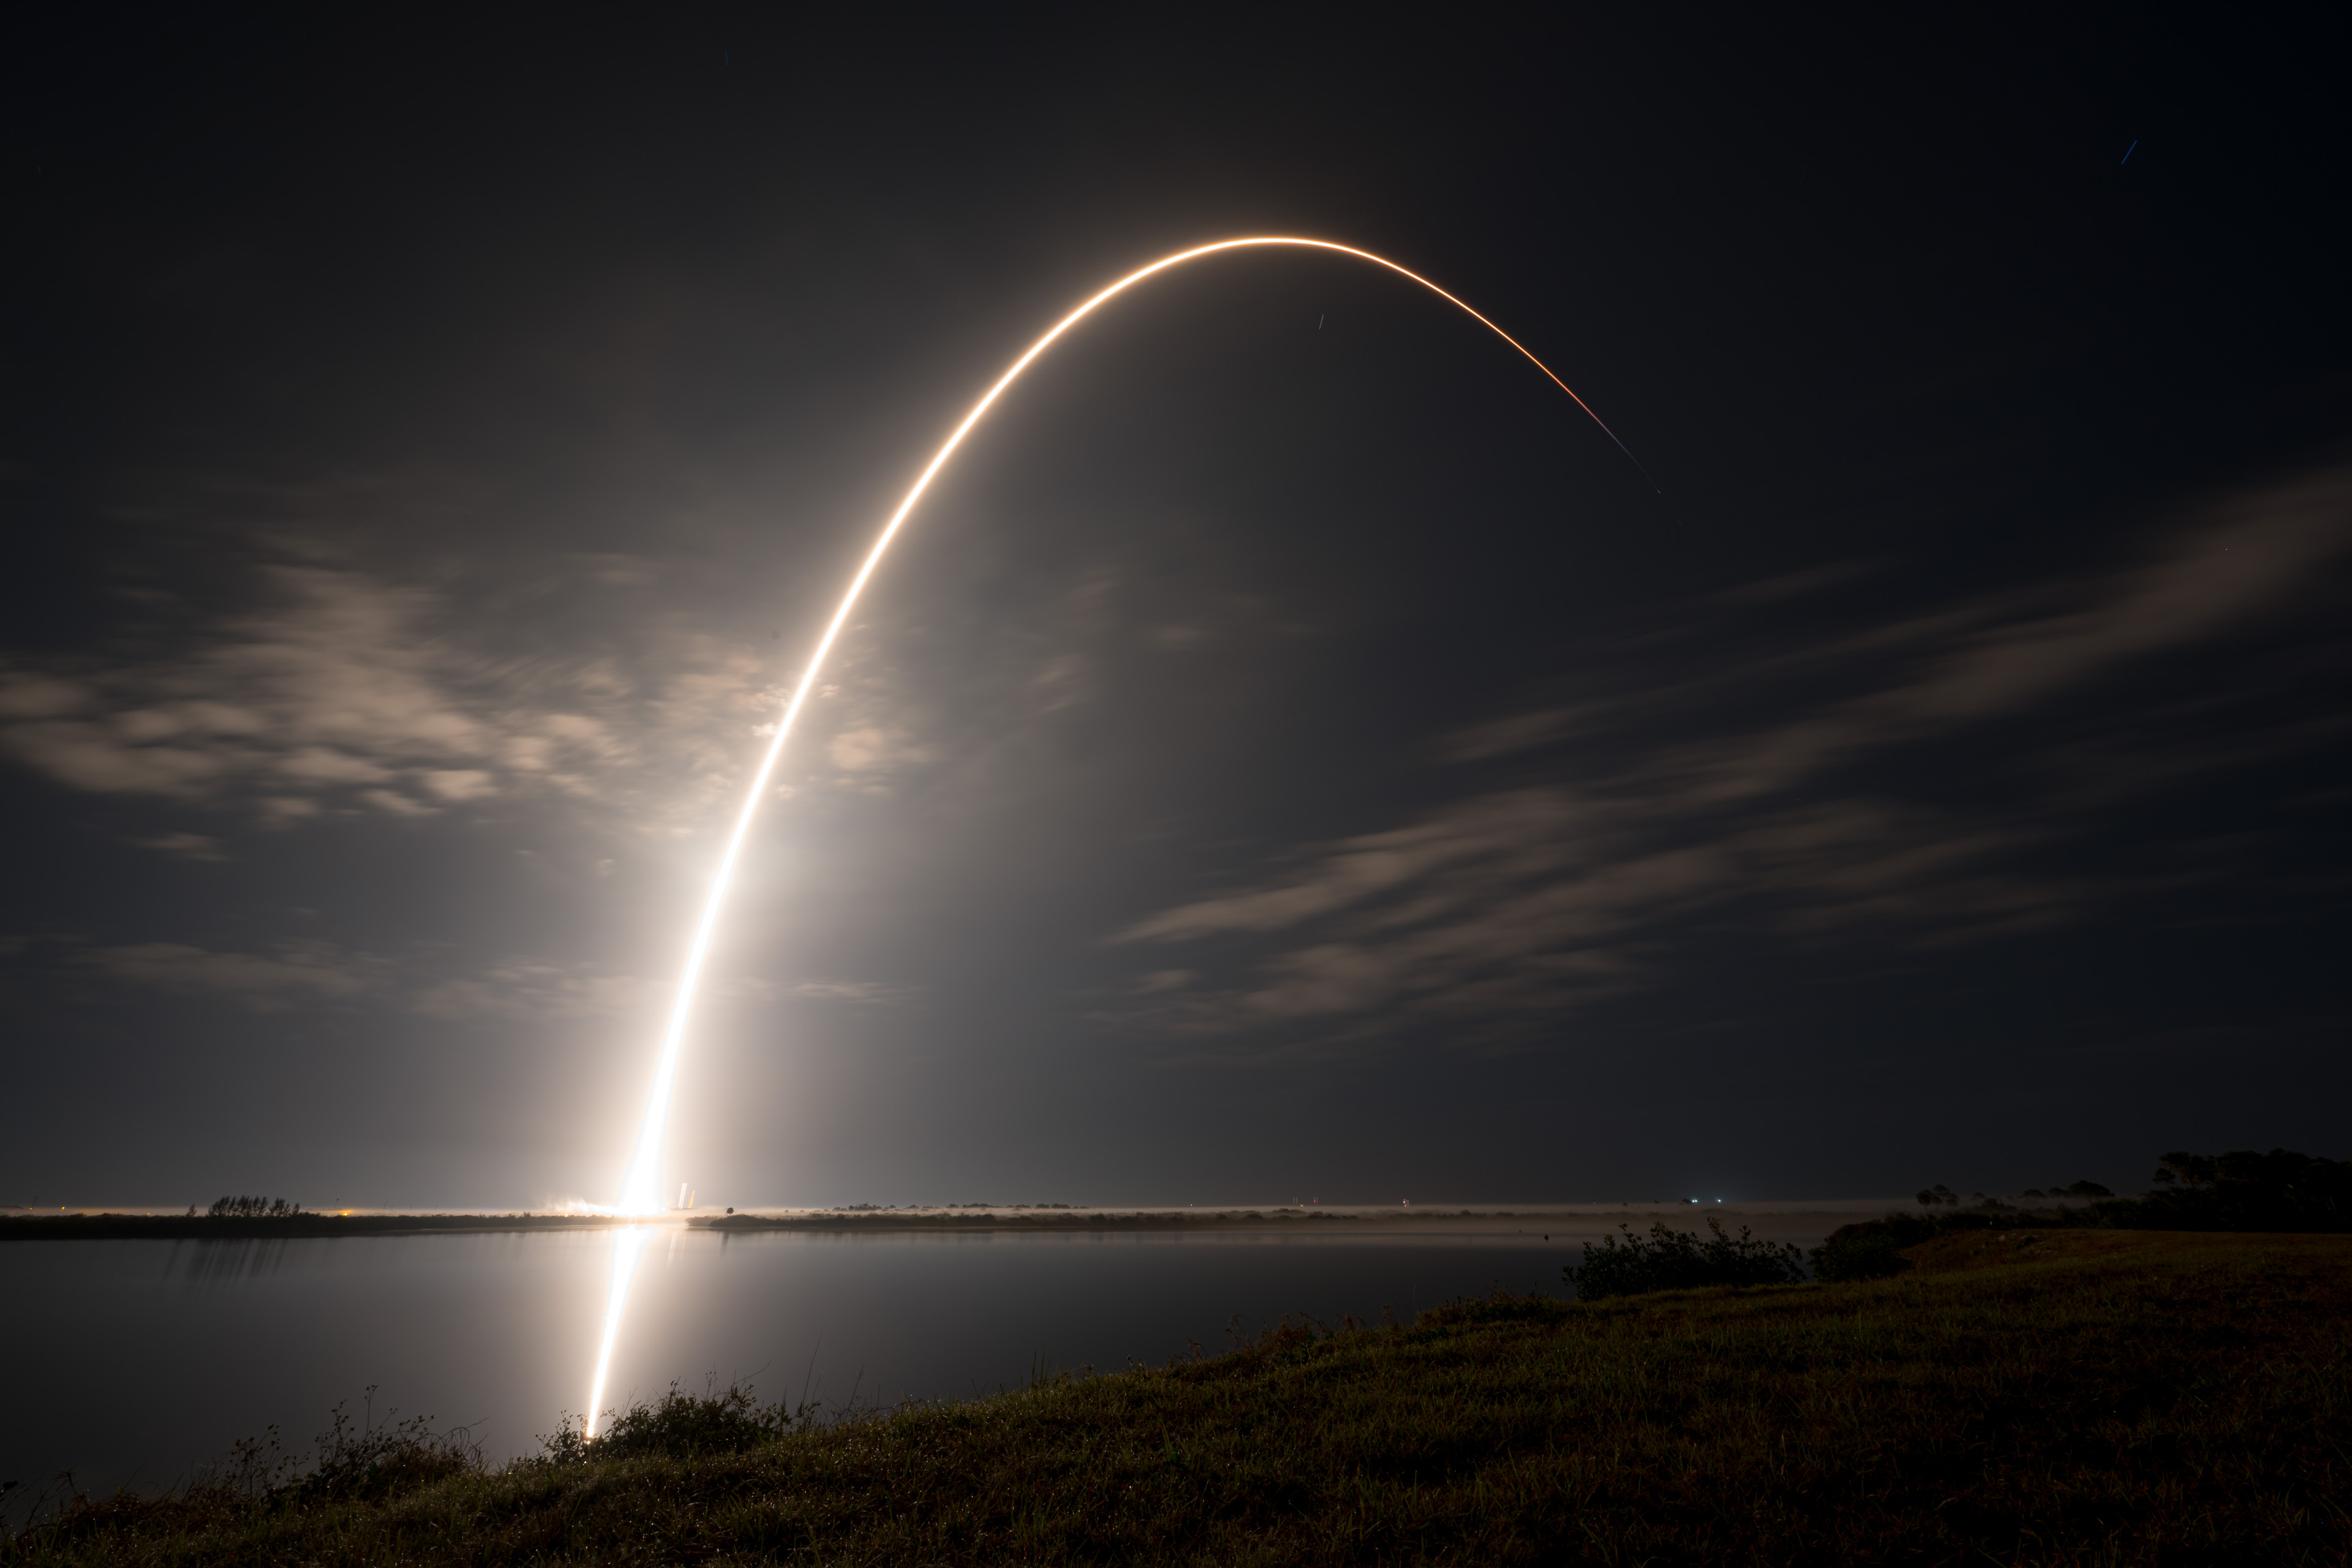
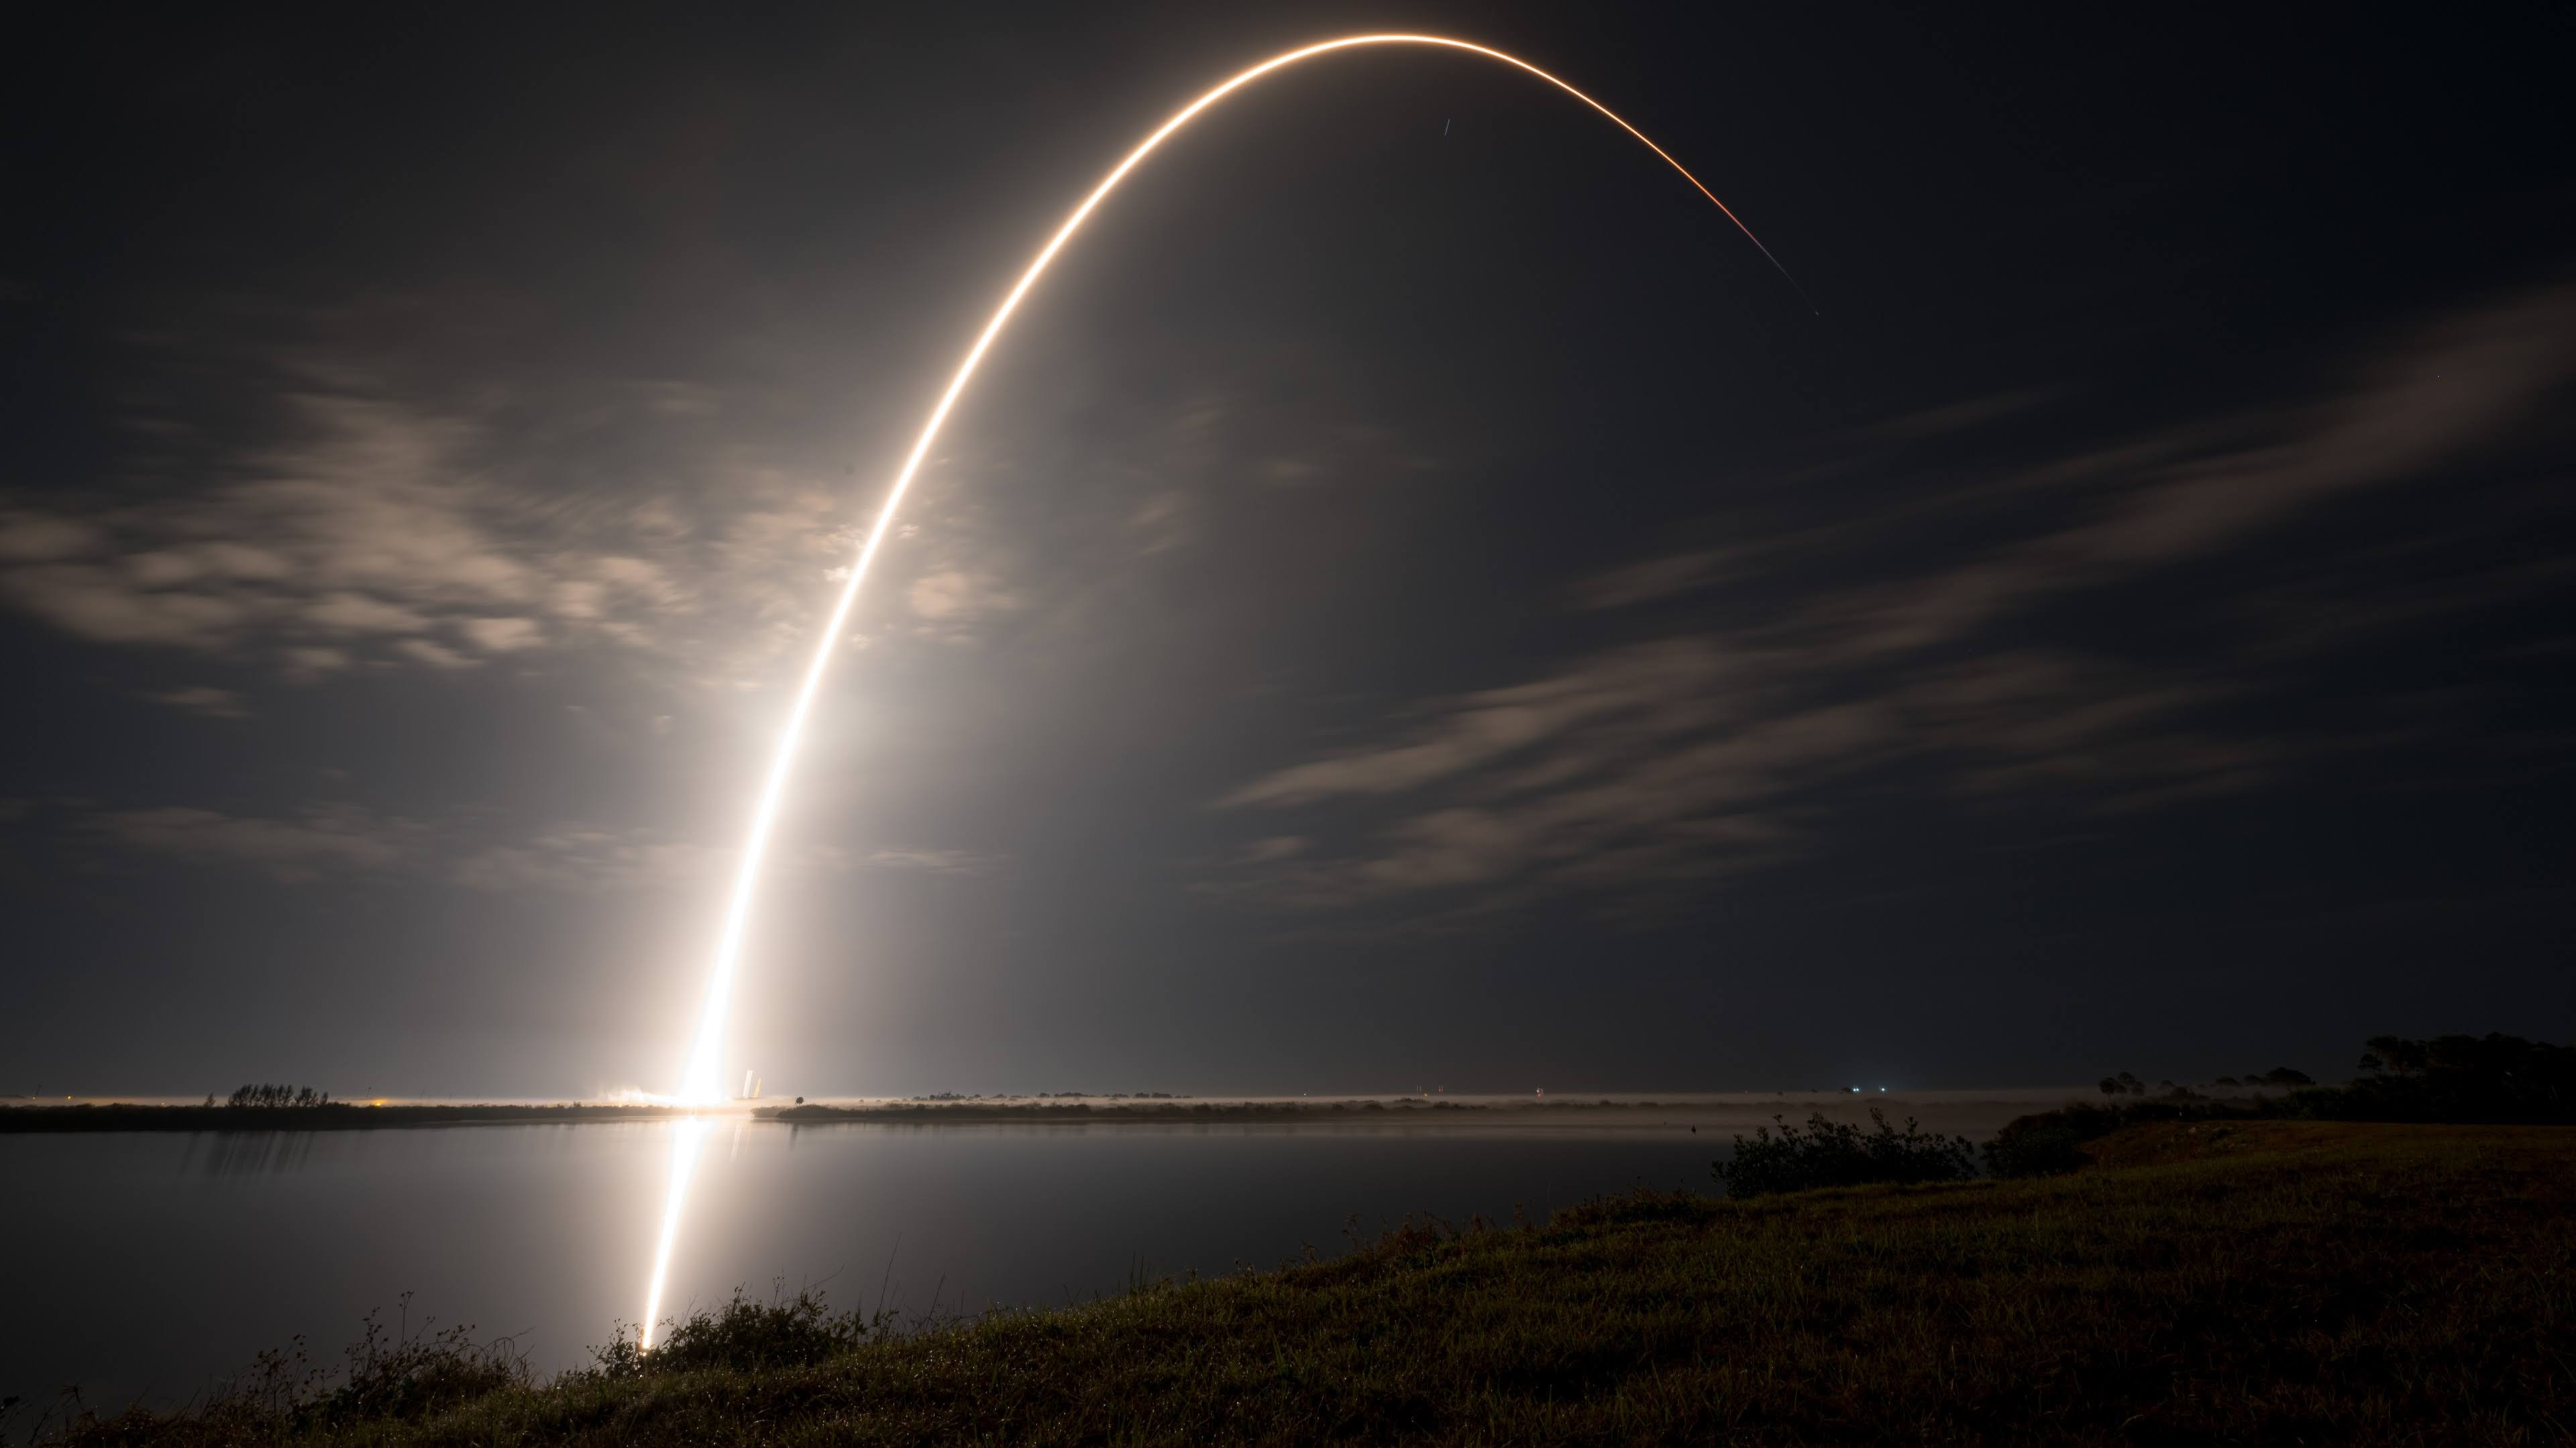
tela cadastro e login

diff --git a/web-data-viz/public/css/estilo.css b/web-data-viz/public/css/estilo.css
@@ -89,27 +89,25 @@ body {
 /* MISSÃO VISÃO VALORES */
 
 .social {
-  background-color: #040341;
+  background-color: #000000;
   display: flex;
-}
-
-.social .container {
   justify-content: center;
 }
 
 .box img {
   width: 200px;
+  background-color: #000000;
+  border-radius: 25px;
 }
 
-.social .container .boxes {
+.boxes{
   display: flex;
   justify-content:space-between;
   width: 100%;
-  padding: 50px 0;
 }
 
 .social p {
-  text-align:center;
+  text-align:start;
 }
 
 .box {
@@ -119,6 +117,24 @@ body {
 }
 
 /* FOOTER */
+
+.footer2 {
+  background-color: #000000;
+  height: 150px;
+  color: #fff;
+  display: flex;
+  font-size: 15px;
+  background: linear-gradient(#2928285b,#000000);
+}
+.footer2 .container {
+  justify-content: center;
+  text-align: center;
+}
+
+.footer2 .container .version {
+  font-size: 12px;
+  color:#ffffff
+}
 
 .footer {
   background-color: #000000;

diff --git a/web-data-viz/public/login.html b/web-data-viz/public/login.html
@@ -49,7 +49,7 @@
         </div>
         <div class="container">
             <div class="card card-login">
-                <h2>Você de novo :)</h2>
+                <h2>Seja bem vindo!</h2>
                 <div class="formulario">
                     <div class="campo">
                         <span>E-mail:</span>
@@ -72,10 +72,10 @@
     </div>
 
     <!--footer inicio-->
-    <div class="footer">
+    <div class="footer2">
         <div class="container">
         <h4 style="color: rgb(255, 255, 255);">Thiago Emidio - SPTech &copy; 2026</h4>
-        <span class="version">Alpha 0.1
+        <span class="version">Alpha 2.0
         </span>
         </div>
     </div>

diff --git a/web-data-viz/public/index.html b/web-data-viz/public/index.html
@@ -41,7 +41,6 @@
     </div>
   
     <div class="social">
-      <div class="container">
         <div class="boxes">
           <div class="box">
             <img src="assets/imgs/orbita.png">
@@ -59,7 +58,6 @@
             <p class="cor-dos-paragrafos">Satélites são equipamentos enviados ao espaço para realizar diversas funções, como <b>comunicação</b>, <b>monitoramento climático</b> e <b>navegação</b>. <br><br>Eles orbitam a Terra e coletam dados importantes para o nosso dia a dia, sendo fundamentais para tecnologias como GPS, internet e previsão do tempo.</p>
           </div>
         </div>
-      </div>
     </div>
 
     <div class="lado-esquerdo">
@@ -81,7 +79,7 @@
     <div class="footer">
       <div class="container">
         <h4 style="color: rgb(255, 255, 255);">Thiago Emidio - SPTech &copy; 2026</h4>
-        <span class="version">Alpha 0.1
+        <span class="version">Alpha 2.0
         </span>
       </div>
     </div>

diff --git a/web-data-viz/public/cadastro.html b/web-data-viz/public/cadastro.html
@@ -92,7 +92,7 @@
   <div class="footer">
     <div class="container">
         <h4 style="color: rgb(255, 255, 255);">Thiago Emidio - SPTech &copy; 2026</h4>
-        <span class="version">Alpha 0.1
+        <span class="version">Alpha 2.0
         </span>
     </div>
   </div>

diff --git a/web-data-viz/public/simulador.html b/web-data-viz/public/simulador.html
@@ -71,7 +71,7 @@
     <div class="footer">
         <div class="container">
         <h4 style="color: rgb(255, 255, 255);">Thiago Emidio - SPTech &copy; 2026</h4>
-        <span class="version">Alpha 0.1
+        <span class="version">Alpha 2.0
         </span>
         </div>
     </div>